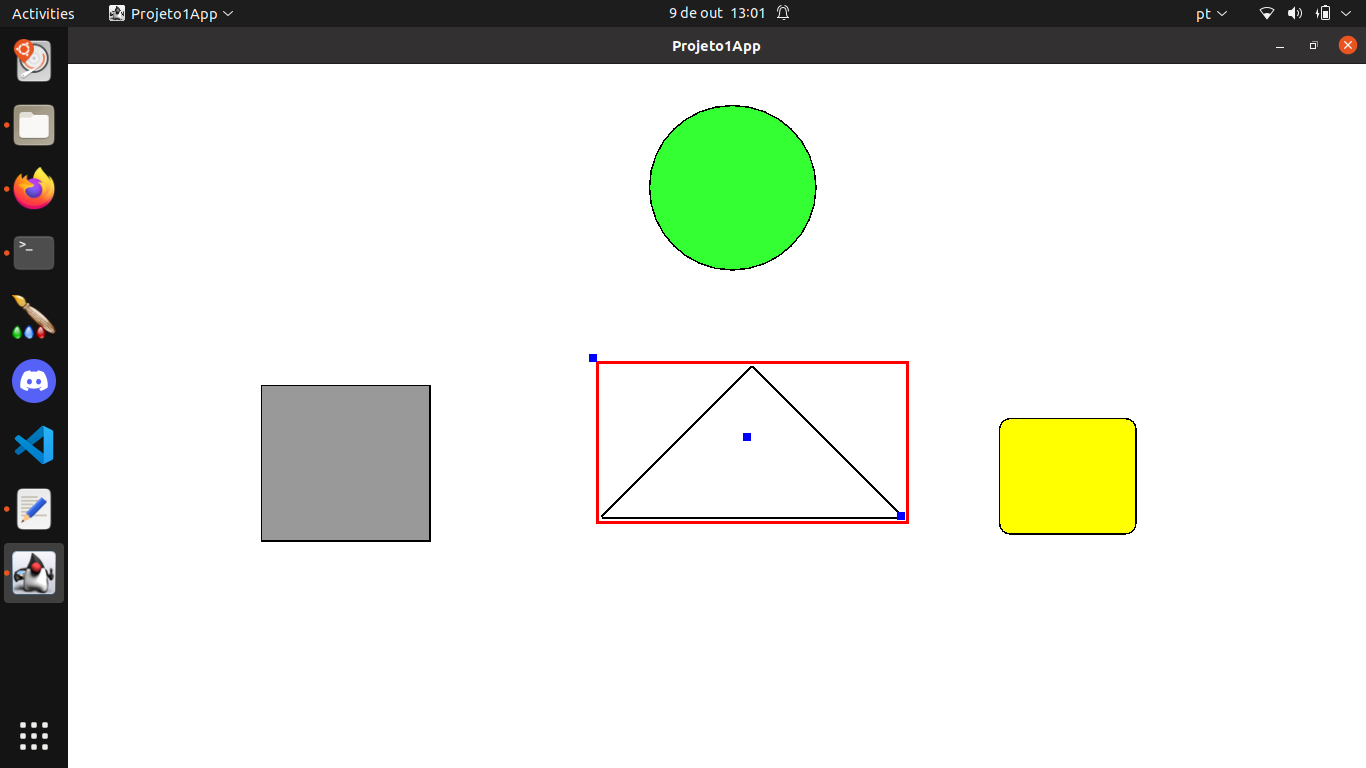
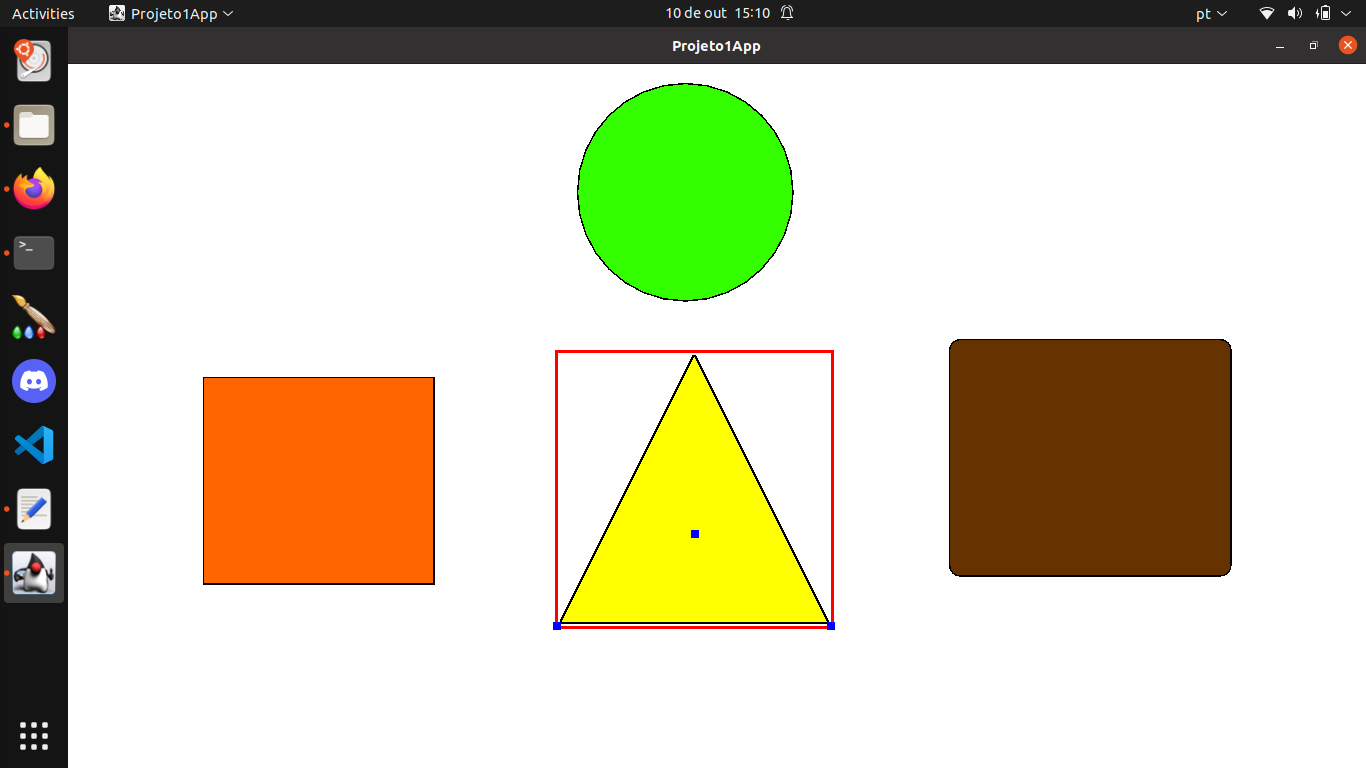
correção2, refatorcao da class Triangulo e ajustes no arquivo principal

diff --git a/Projeto1App.java b/Projeto1App.java
@@ -161,6 +161,7 @@ class ListFrame extends JFrame
 					  for(int j = 0; j < 3; j++){
 					      lastPoints[j] = new Point2D.Double(points[j].getX(), points[j].getY());
 					  }
+					  
 					  break;
 					}
 			      }
@@ -227,29 +228,34 @@ class ListFrame extends JFrame
           					points[2].x = newPoint2X; 
           					points[2].y = newPoint2Y;
           					
-          					//Tratamento especial para o triangulo
-          					if( selectedFigure.h != -1)
-				   			selectedFigure.w = (int)Math.abs(points[1].getCenterX()-points[0].getCenterX());
-				   		else
-				   			selectedFigure.w = (int)Math.abs(points[1].getCenterX()-points[0].getCenterX())/2;
-				   		
+          					selectedFigure.w = (int)Math.abs(points[1].getCenterX()-points[0].getCenterX());
+          					
 				   		//Tratamento especial para o triangulo
 				   		if( selectedFigure.h != -1)
 				   			selectedFigure.h = (int)Math.abs(points[1].getCenterY()-points[0].getCenterY());
         				}
         				else
         				{
-        					//System.out.printf("Drag %d\n",pos);
+        					double deltaX = currentPt.x - lastPoints[2].getX();
+        					double deltaY = currentPt.y - lastPoints[2].getY();
         					
-        					Double deltaX = currentPt.x - lastPoints[2].getX();
-          					Double deltaY = currentPt.y - lastPoints[2].getY();
           					
 				   		 for(int j = 0; j < 3; j++){
 				   		 	points[j].x = lastPoints[j].getX() + deltaX;
 				   		 	points[j].y = lastPoints[j].getY() + deltaY;
 				   		 }
-				   		selectedFigure.x = (int)points[0].getCenterX();
-				   		selectedFigure.y = (int)points[0].getCenterY();
+				   		 
+				   		//Tratamento especial para o triangulo
+				   		if( selectedFigure.h == -1)
+				   		{
+				   			selectedFigure.x = (int)points[0].getCenterX()+(selectedFigure.w/2);
+				   			selectedFigure.y = (int)points[0].getCenterY()-selectedFigure.w-SIZE;
+				   		}
+				   		else
+				   		{
+				   			selectedFigure.x = (int)points[0].getCenterX();
+				   			selectedFigure.y = (int)points[0].getCenterY();
+				   		}
 				   		
         				}
         				
@@ -326,7 +332,7 @@ class ListFrame extends JFrame
 		{
 			int w = auxFigure.w;
 			
-			g2d.drawRect(auxFigure.x-w-5, auxFigure.y-5, (auxFigure.w*2)+10, auxFigure.w+10);
+			g2d.drawRect(auxFigure.x-(w/2)-5, auxFigure.y-5, auxFigure.w+10, auxFigure.w+10);
 		}
 		else
 			g2d.drawRect(auxFigure.x-5,auxFigure.y-5, auxFigure.w+10,auxFigure.h+10);
@@ -354,13 +360,13 @@ class ListFrame extends JFrame
 		if( selectedFigure.h == -1 )
 		{
 		
-			x = x-w-5;
-			y = y-5;
+			points[0].x = (double)x-(w/2)-SIZE; points[0].y = (double)y+w;
+			points[1].x = (double)x+(w/2); points[1].y = (double)y+h; 
 			
-			
-			points[0].x = (double)x-SIZE; points[0].y = (double)y-SIZE;
-			points[1].x = (double)x+w*2; points[1].y = (double)y+h; 
-			points[2].x = (double)((x+w*2)+(x-SIZE))/2; points[2].y = (double)((y+h)+y-SIZE)/2;
+			//Calculando o baricentro do triangulo
+			double Gx = (x + (x-(w/2.0)) + (x+(w/2.0))-SIZE )/3.0 ;
+			double Gy = (y + (y+w) + (y+h) -SIZE )/3.0;
+			points[2].x = Gx; points[2].y = Gy;
 		}
 		else
 		{

diff --git a/figures/Triangle.java b/figures/Triangle.java
@@ -19,7 +19,7 @@ public class Triangle extends Figure
 		BasicStroke bs1 = new BasicStroke(4, BasicStroke.CAP_BUTT, BasicStroke.JOIN_BEVEL);
 		g2d.setStroke(bs1);
 		
-		int x[] = {this.x, this.x-w, this.x+w};
+		int x[] = {this.x, this.x-(int)(w/2.0), this.x+(int)(w/2.0)};
 		int y[] = {this.y, this.y+w, this.y+w};
 		
 		g2d.setColor(this.BorderColor);
